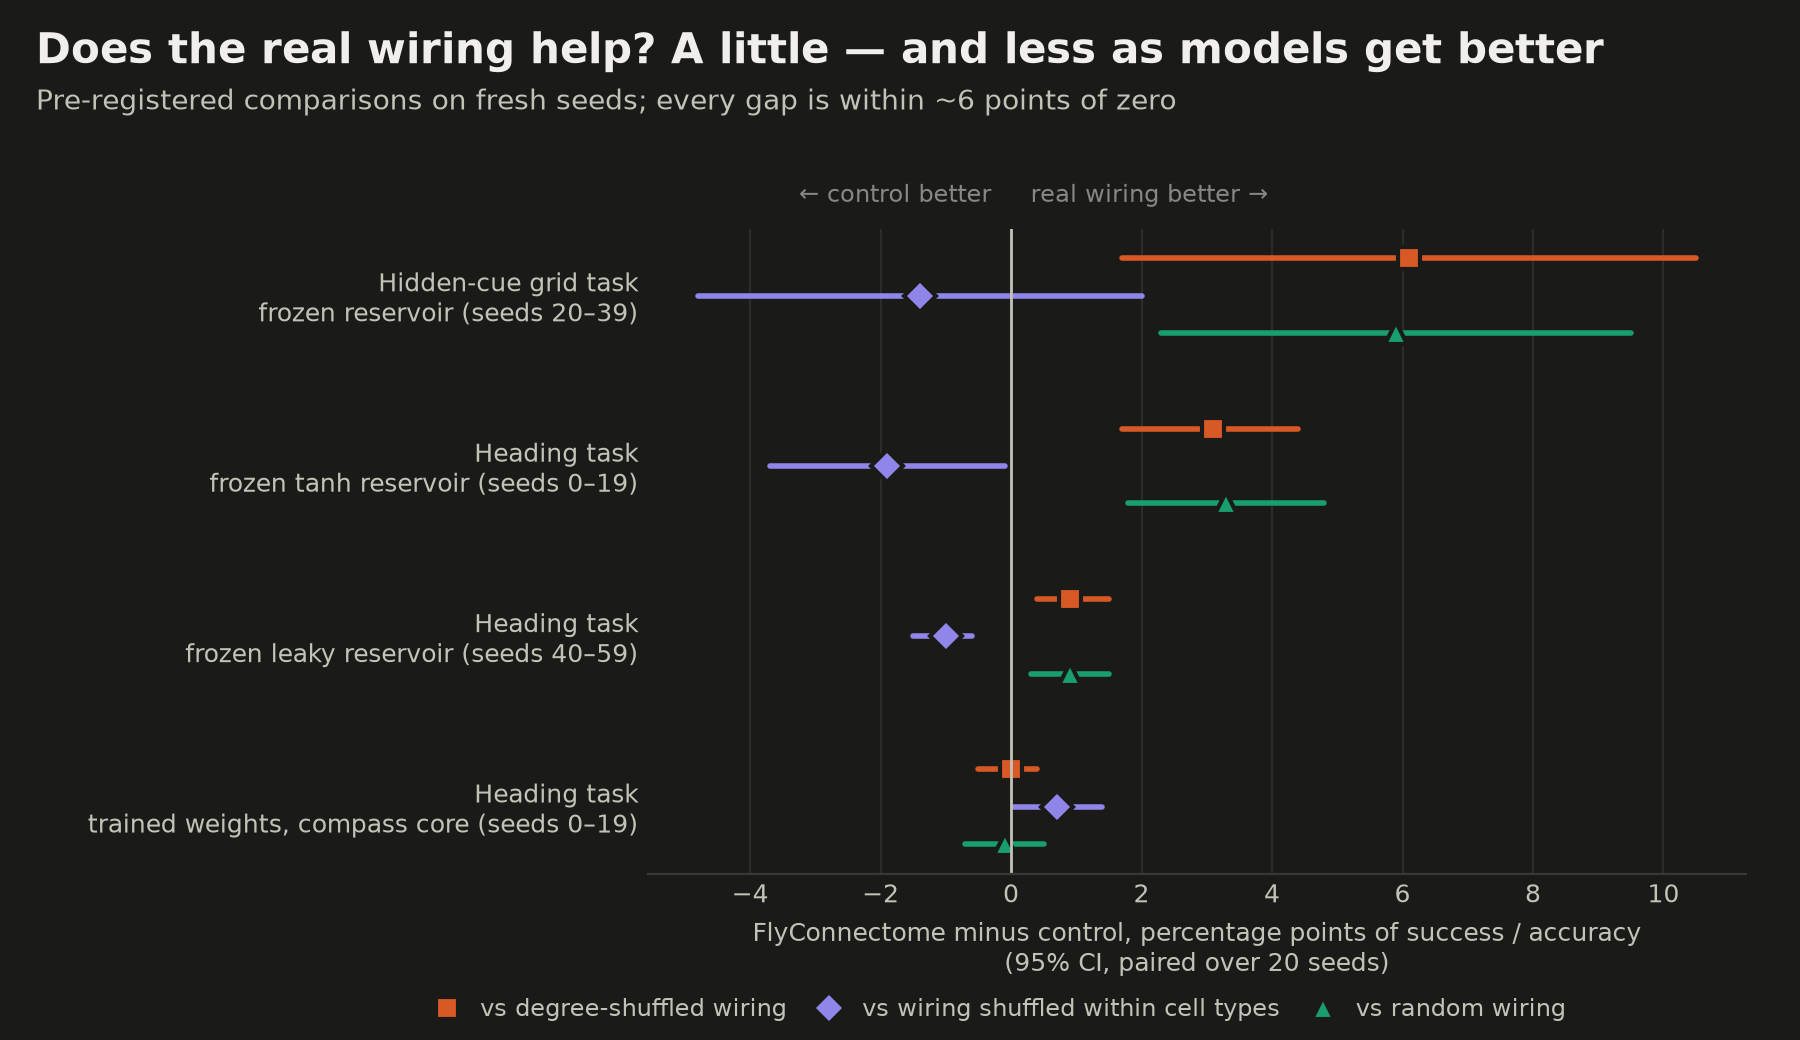
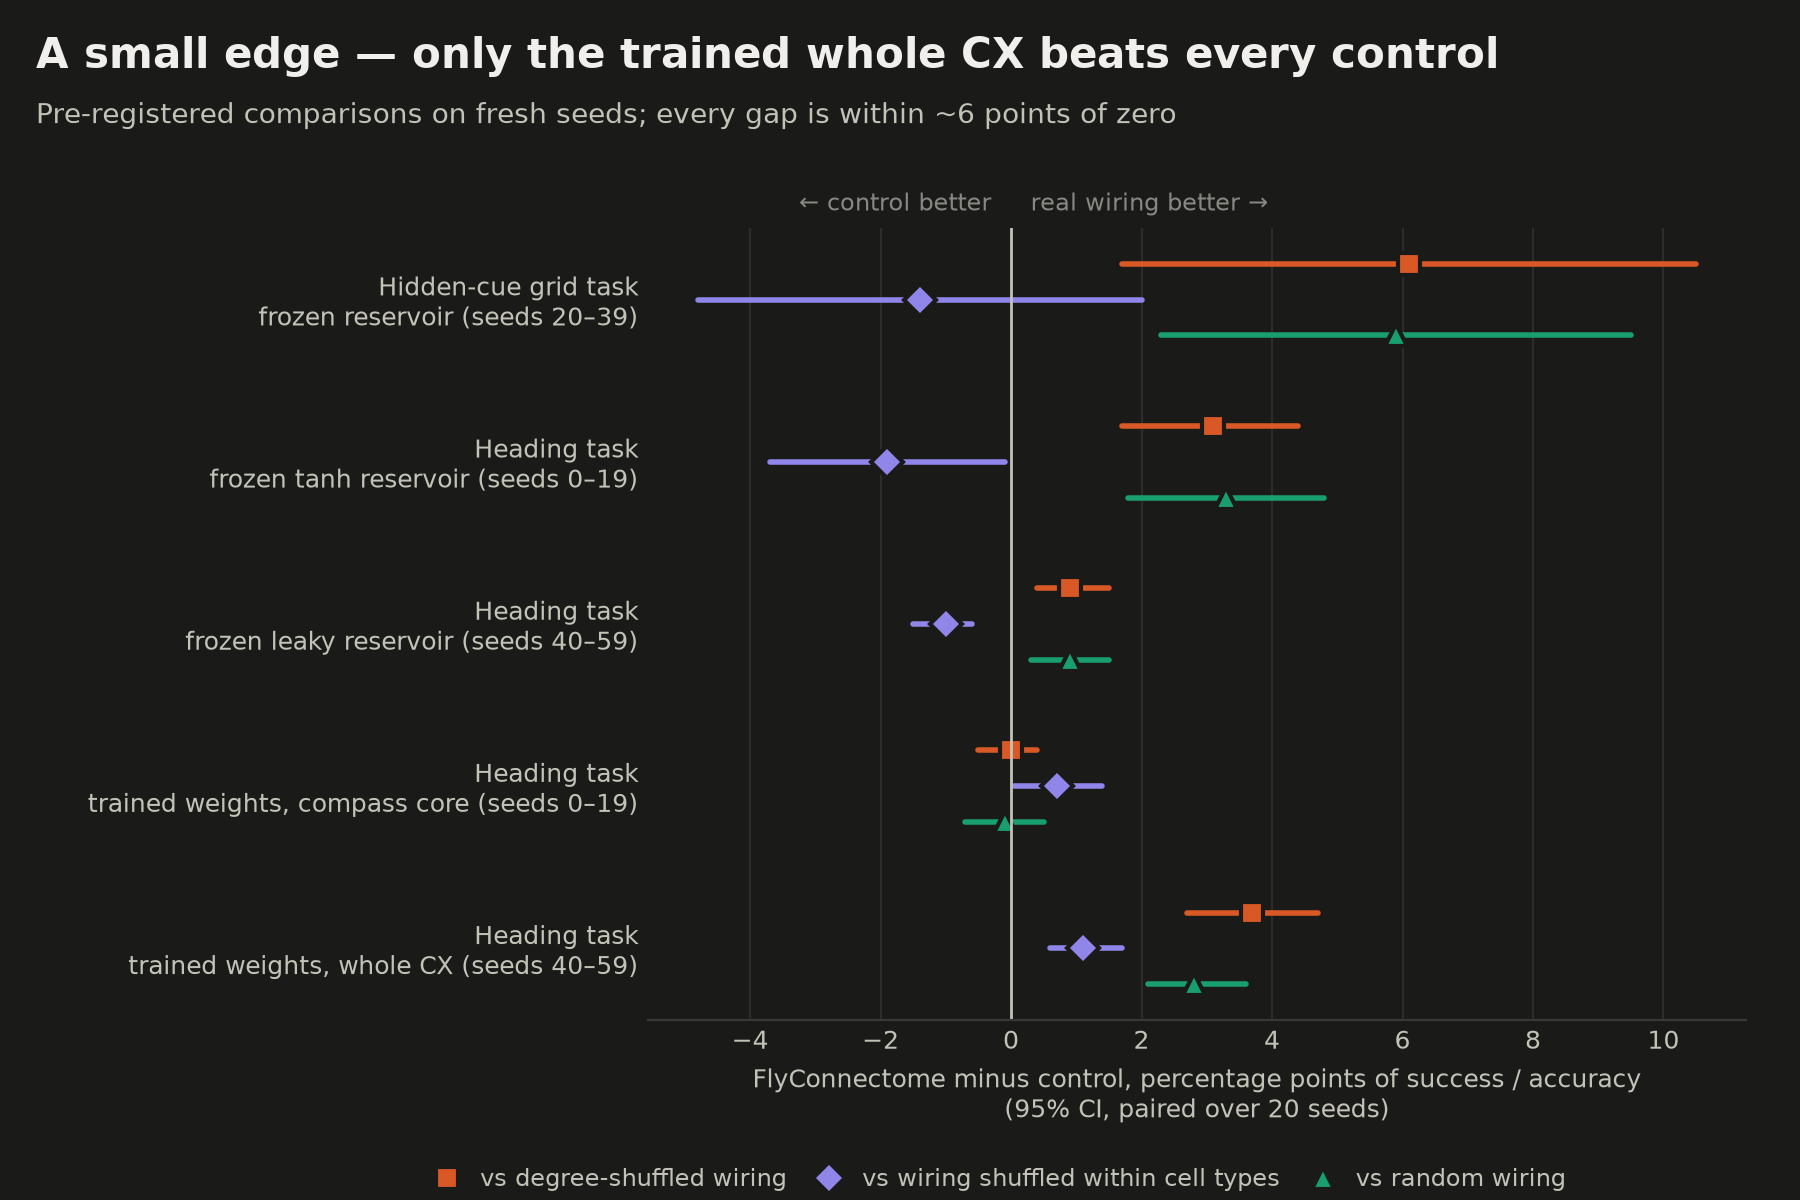
docs: README for v0.5.0 — whole-CX result and cloud runs
Adds the pre-registered whole-CX trained-mask result to the README and
the forest plot (fifth row; retitled), a Cloud runs section with the
pipeline and measured run, and links to docs/cloud.md and infra/.
The cost is stated as an estimate until billing data is available.

diff --git a/src/neuroflynav/reporting/figures.py b/src/neuroflynav/reporting/figures.py
@@ -247,8 +247,8 @@ def plot_forest(summary: dict[str, object], theme: Theme) -> Figure:
         "TypeShuffledFly": "vs wiring shuffled within cell types",
         "RandomRecurrent": "vs random wiring",
     }
-    fig, ax = plt.subplots(figsize=(9.0, 5.2), dpi=200)
-    fig.subplots_adjust(left=0.36, right=0.97, top=0.78, bottom=0.16)
+    fig, ax = plt.subplots(figsize=(9.0, 6.0), dpi=200)
+    fig.subplots_adjust(left=0.36, right=0.97, top=0.81, bottom=0.15)
     offsets = (0.22, 0.0, -0.22)  # same top-to-bottom order as the legend
     for position, row in enumerate(rows):
         y = len(rows) - 1 - position
@@ -312,7 +312,7 @@ def plot_forest(summary: dict[str, object], theme: Theme) -> Figure:
     _titles(
         fig,
         theme,
-        "Does the real wiring help? A little — and less as models get better",
+        "A small edge — only the trained whole CX beats every control",
         "Pre-registered comparisons on fresh seeds; every gap is within ~6 points of zero",
     )
     return fig

diff --git a/README.md b/README.md
@@ -12,9 +12,10 @@ of a navigation agent. It then compares that agent against fair controls: the sa
 shuffled, a random network of the same size, and a network with no memory at all. Biological
 topology is a hypothesis to test, not an assumption; a negative result is a valid outcome.
 
-> **Status: v0.4.0, exploratory.** The pipeline runs end to end on the real CX wiring (2,966
-> neurons, 467,579 connections). Dynamics, inputs and readout are placeholders, and no
-> experiment has been frozen yet. Numbers below are a first look, not a scientific claim.
+> **Status: v0.5.0, exploratory.** The pipeline runs end to end on the real CX wiring (2,966
+> neurons, 467,579 connections), locally or as containerised sweeps on AWS Batch. Dynamics,
+> inputs and readout are placeholders, and no experiment has been frozen yet. Numbers below
+> are pre-registered first looks, not a scientific claim.
 
 <picture>
   <source media="(prefers-color-scheme: dark)" srcset="docs/figures/cx-wiring-dark.png">
@@ -43,7 +44,7 @@ hemibrain v1.2 connectome ──► CX subgraph ──► frozen recurrent "rese
 
 <picture>
   <source media="(prefers-color-scheme: dark)" srcset="docs/figures/results-forest-dark.png">
-  <img alt="Forest plot: real CX wiring minus each control, four pre-registered experiments. Small edges over degree-shuffled and random wiring with frozen reservoirs (+1 to +6 points), none over wiring shuffled within cell types, and none once weights are trained." src="docs/figures/results-forest-light.png" width="100%">
+  <img alt="Forest plot: real CX wiring minus each control, five pre-registered experiments. Small edges over degree-shuffled and random wiring with frozen reservoirs (+1 to +6 points) and none over wiring shuffled within cell types; with trained weights no edge on the dense compass core, but on the sparse whole CX the real wiring beats all three controls (+1 to +4 points)." src="docs/figures/results-forest-light.png" width="100%">
 </picture>
 
 <picture>
@@ -91,7 +92,34 @@ See [docs/spike_heading.md](docs/spike_heading.md).
 Training the recurrent weights on the compass-core mask (409 neurons) makes a much better
 integrator (0.84 vs 0.52 frozen) — but a random mask of the same density trains just as well,
 and with scarce data even slightly better (−2.4 points for the real mask, pre-registered).
-See [docs/spike_trained.md](docs/spike_trained.md).
+The compass core is dense (26% of all possible connections). On the **whole CX** (5.3%), run as
+100 cloud jobs, the picture changes: the real wiring trains better than a random mask of the
+same size (**+2.8 points [+2.1, +3.6]**, the pre-registered test) and than a degree-preserving
+shuffle (+3.7). Shuffling within cell types costs only +1.1, so cell-type structure again
+carries most of the advantage. One task, one model, one training budget — a lead, not a
+conclusion. See [docs/spike_trained.md](docs/spike_trained.md).
+
+## Cloud runs
+
+The whole-CX sweep (5 variants × 20 seeds) would take ~30 h on a laptop. It runs on AWS as a
+Batch array job, one container per (variant, seed):
+
+```
+git commit ──► Docker image ──► Amazon ECR ──► AWS Batch array job ──► S3 results ──► aggregate
+ (code)        micromamba,       private       Fargate Spot, 4 vCPU       one JSON     same summary
+               same conda env    registry      / 8 GB per job, ≤3 at once  per job      as local runs
+```
+
+- **Infrastructure as code** — Terraform in [infra/](infra/README.md): ECR, a private encrypted
+  S3 bucket, least-privilege IAM roles (jobs can only write results), Batch on Fargate Spot,
+  CloudWatch logs and a cost budget with alerts.
+- **Reproducible** — the image is tagged with the git commit; the container downloads the
+  public connectome and checks its SHA-256; a pilot job matched the local result exactly.
+- **Measured** — 100/100 jobs succeeded, 7.8 job-hours in 3.3 h wall time, an estimated <1 USD
+  (Fargate Spot list price; billing data pending);
+  idle cost is near zero because Fargate scales to zero.
+
+How to run it: [docs/cloud.md](docs/cloud.md).
 
 ## Quick start
 
@@ -119,7 +147,9 @@ importable without installation; one hemibrain seed takes about 30 s on a laptop
 | [docs/spike_m0plus.md](docs/spike_m0plus.md) | M0+: hidden-cue task and reservoir, so topologies can be told apart |
 | [docs/spike_m1.md](docs/spike_m1.md) | M1: real hemibrain CX wiring, data download, multi-seed results |
 | [docs/spike_heading.md](docs/spike_heading.md) | Heading integration task: landmarks + self-motion, pre-registered result |
-| [docs/spike_trained.md](docs/spike_trained.md) | Recurrent weights trained on the CX mask (compass core), pre-registered result |
+| [docs/spike_trained.md](docs/spike_trained.md) | Recurrent weights trained on the CX mask (compass core and whole CX), pre-registered results |
+| [docs/cloud.md](docs/cloud.md) | Container and AWS Batch sweeps: build, push, submit, collect |
+| [infra/README.md](infra/README.md) | Terraform stack for the cloud runs |
 | [docs/reproducibility.md](docs/reproducibility.md) | Provenance capture for runs |
 | [CHANGELOG.md](CHANGELOG.md) | Release history |
 
@@ -127,7 +157,8 @@ importable without installation; one hemibrain seed takes about 30 s on a laptop
 
 - **M2 — honest science:** a harder task where fine wiring could matter, signed synapses, a
   frozen protocol and a one-shot holdout.
-- **M3 — cloud:** containerised multi-seed sweeps on AWS Batch (CPU) with S3 artifacts.
+- **M3 — cloud (done in v0.5.0):** containerised multi-seed sweeps on AWS Batch (CPU) with S3
+  artifacts and Terraform; next: dispatch from GitHub Actions via OIDC.
 - **M4 — write-up:** results notebook, figures, short report.
 
 ## Data and citation

diff --git a/docs/spike_trained.md b/docs/spike_trained.md
@@ -87,7 +87,7 @@ Reading:
 
 The same experiment on the whole CX subgraph (2,966 neurons, 467,579 edges, 5.3% density
 instead of 26%), run as 100 AWS Batch jobs ([cloud.md](cloud.md)): 100/100 succeeded,
-7.8 job-hours, 3.3 h wall time, well under 1 USD. Rule fixed before the run: Fly − RandomMask,
+7.8 job-hours, 3.3 h wall time, an estimated <1 USD (billing data pending). Rule fixed before the run: Fly − RandomMask,
 paired over seeds, 95% CI > 0.
 
 | Variant | Accuracy | Fly − variant (paired) |
